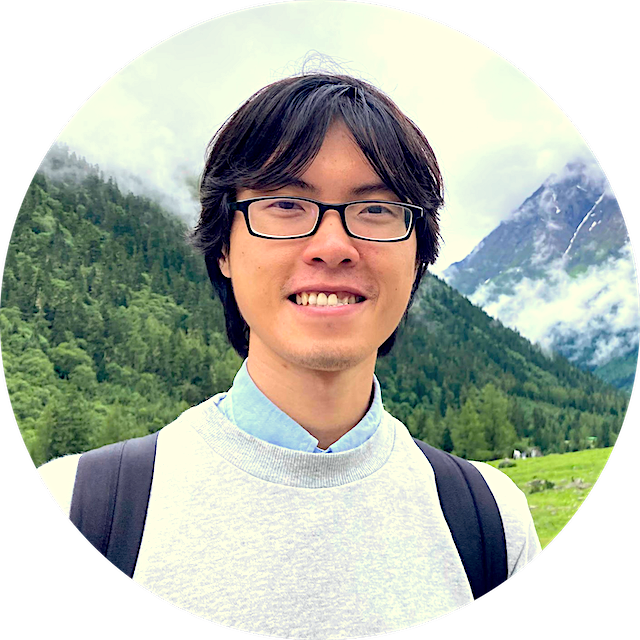
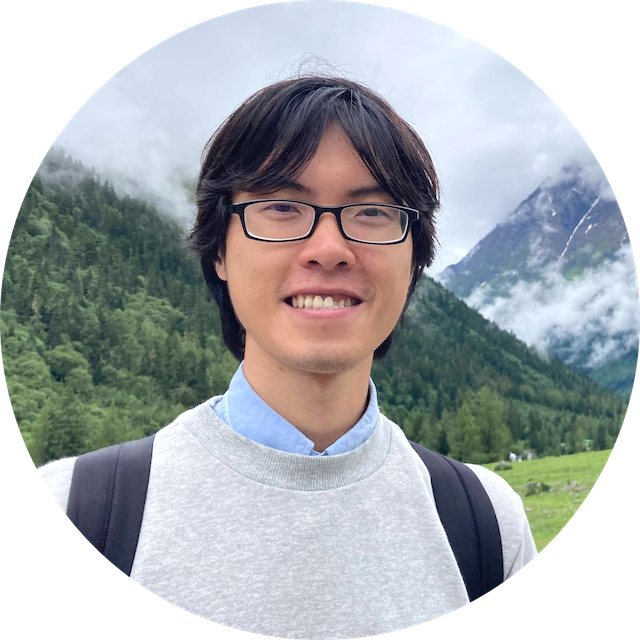
modified:   _posts/2024-02-11-air-quality.md 	new file:   _posts/2024-02-14-low-cost-sensor.md 	modified:   assets/images/.DS_Store 	modified:   assets/images/bio-photo-1.png 	new file:   assets/images/low-cost-sensor/.DS_Store 	new file:   assets/images/low-cost-sensor/fig1.png 	new file:   assets/

diff --git a/_posts/2024-02-14-low-cost-sensor.md b/_posts/2024-02-14-low-cost-sensor.md
@@ -1,0 +1,339 @@
+---
+title: "Air Quality Monitoring using Electrochemical Low-Cost Sensor Calibrated by Lasso Regression"
+date: 2024-02-14T08:30:00+09:00
+category: Data-Analysis
+tag: Projects
+header:
+  teaser: /assets/images/low-cost-sensor/teaser.jpg
+---
+
+## Analysis Goal
+
+Urban air quality monitoring requires a dense monitoring network to effectively map out the air quality distribution across regions. However, due to the inherent high cost of certified analyzers, the density of monitoring stations has been low. Low-cost sensors have been proposed to be the solution to this challenge as they are cheap to deploy and they can be calibrated by a certified analyzer for a short time, and then operate in the field for a long time.
+
+This dataset contains raw signals from two low-cost sensor nodes and ground truth data from reference stations. The sensor nodes contain NO, O3, NO2, temperature, and relative humidity sensors, as described in the [original paper](https://www.sciencedirect.com/science/article/pii/S2352340922007934#bib0011) publishing the dataset. The reference data contains hourly concentrations of CO, NO, NO2, NOx, O3, and SO2, downloaded from an [online database](https://mediambient.gencat.cat/es/05_ambits_dactuacio/atmosfera/qualitat_de_laire/vols-saber-que-respires/descarrega-de-dades/descarrega-dades-automatiques/). The goal is to develop a calibration/regression model for the low-cost sensors to accurately predict the target gas concentration for efficient air-quality monitoring.
+
+This analysis will showcase one approach for sensor calibration using Lasso regression. This method differs from generic multiple linear regression as it introduces an additional regularization term to control the sparsity of fitting coefficients. By optimizing the regularization strength, we can obtain multiple linear regression models with sparse coefficients, leading to better interpretability. This makes Lasso regression naturally suitable for sensor calibration, where simplicity is desired. The performance of Lasso regression is compared with a series of baseline models from the Python package 'lazypredict' to confirm its good performance.
+
+The calibration results indicate that the calibration for CO and SO2 is understandably poor because the sensor nodes only contain NO, O3, and NO2 sensors. However, with only two weeks of training data, the regression quality for four months of NO, NO2, NOx, and O3 data is very good, with R2 scores around and above 0.85. This validates the idea of using low-cost sensor nodes to increase monitoring network density for improved air quality monitoring performance.
+
+The full analysis with code can be found in this [Kaggle notebook](https://www.kaggle.com/code/chaozhuang/low-cost-sensor-calibration-w-lasso-regression).
+
+<figure style="width: 1000px" class="align-center">
+  <img src="/assets/images/low-cost-sensor/setup.jpg" alt="A figure that illustrate the experiment setup with sensors collocated with an authorized reference air quality monitoring station, and the internal circuit of the sensors.">
+  <figcaption>The experimental setup.</figcaption>
+</figure>
+
+## EDA
+
+Let's take a first look at the data using a correlation matrix and scatter matrix for a sanity check, confirming that no weird correlations arise from errors during the data loading phase.
+
+Several things can be observed from the correlation matrix:
+
+- Same sensors from different nodes show good correlation, confirming the reproducibility among sensors from the same manufacturer.
+- The target analyte and its corresponding specialized sensor (O3, NO, etc.) have a strong correlation, confirming the selectivity of these dedicated sensors.
+- The NO and NOx levels are highly correlated because NOx contains NO. Therefore, the sensor nodes can also be calibrated to estimate the overall NOx level.
+
+<figure style="width: 1000px" class="align-center">
+  <img src="/assets/images/low-cost-sensor/fig1.png" alt="Correlation matrix showing sensor reproducibility, selectivity, and cross-sensitivity.">
+  <figcaption>A correlation matrix of the combined dataframe.</figcaption>
+</figure>
+
+### Scatter Matrix
+
+The scatter matrix below provides a more detailed representation of the correlation coefficients presented in the correlation matrix.
+
+<figure style="width: 1000px" class="align-center">
+  <img src="/assets/images/low-cost-sensor/fig2.png" alt="Scatter matrix visualizing correlations among sensors and target analytes.">
+  <figcaption>A scatter matrix between all features.</figcaption>
+</figure>
+
+## Calibration Models
+
+To calibrate the sensors for air quality monitoring, we will use Lasso regression to calculate the coefficients of all sensor features for all target analytes, starting with CO.
+
+In the following, we have defined a helper function to visualize the optimization of the regularization term. When the regularization is weak, Lasso regression is reduced to generic multiple linear regression, where all sensor features are used in the regression. When the regularization strength is high, it promotes sparsity and penalizes the use of unimportant features, significantly reducing the number of features required during calibration. We select the best regularization strength that minimizes the root mean square error (RMSE).
+
+```python
+Best Alpha: 0.007663410868007463
+Lowest RMSE: 0.06704093498084798
+R-square (R2): 0.3081041404664757
+
+Important features in ranked order:
+NO-1-mean: 0.053
+NO2-2-mean: 0.029
+T-2-std: -0.018
+T-1-mean: -0.011
+T-2-mean: -0.008
+RH-2-std: -0.008
+```
+
+<figure style="width: 750px" class="align-center">
+  <img src="/assets/images/low-cost-sensor/fig3.png" alt="Optimizing alpha in Lasso regression to minimize RMSE. The graphs shows the RMSE and coefficient strength as a function of Alpha.">
+  <figcaption>(Left) Model RMSE of CO calibration as a function of alpha. (Right) Coefficient strengths as a function of alpha.</figcaption>
+</figure>
+
+<figure style="width: 750px" class="align-center">
+  <img src="/assets/images/low-cost-sensor/fig4.png" alt="The results of Lasso regression, indicating a decent fit despite of the absence of direct correlation.">
+  <figcaption>(Left) True vs. calibrated CO readings. (Right) Model error as a function of time.</figcaption>
+</figure>
+
+#### Machine Learning Models
+
+To obtain an overview of the performance of all other available machine learning models, we use a package called 'lazypredict' to generate baseline performance from a library of models. The list of models below shows that the optimized Lasso regression we use has a similar R2 score to the top-performing OrthogonalMatchingPursuitCV. Notice also that simple linear regression gives a negative R2 score, which means its performance is worse than using the average of all signals for calibration. This further validates the effectiveness of our calibration model.
+
+```python
+Adjusted R-Squared  R-Squared  RMSE  Time Taken
+Model                                                                         
+OrthogonalMatchingPursuitCV                  0.30       0.31  0.07        0.08
+ExtraTreesRegressor                          0.29       0.29  0.07        0.27
+LarsCV                                       0.28       0.29  0.07        0.14
+LassoLarsCV                                  0.28       0.29  0.07        0.15
+GammaRegressor                               0.28       0.29  0.07        0.04
+LassoCV                                      0.28       0.29  0.07        0.22
+ElasticNetCV                                 0.28       0.29  0.07        0.22
+PoissonRegressor                             0.26       0.26  0.07        0.07
+...
+```
+
+### NO
+
+We have a NO sensor in the low-cost sensor node, so we expect much better calibration performance for this target. Using the same Lasso regressor, we obtain an R2 score of 0.89 with 14 non-zero coefficients out of 18 candidates. The most important feature is, unsurprisingly, the mean NO sensor signals. The optimized Lasso also outperforms the best model provided by lazypredict.
+
+```python
+Best Alpha: 0.10353218432956626
+Lowest RMSE: 3.3233438447063244
+R-square (R2): 0.8901232879755219
+
+Important features in ranked order:
+NO-1-mean: 17.050
+T-1-mean: -2.978
+NO2-2-mean: 2.865
+NO-1-std: 2.623
+NO2-2-std: -2.239
+T-2-std: -1.330
+O3-1-mean: 1.252
+O3-2-std: 1.191
+NO2-1-std: 0.838
+RH-2-mean: 0.793
+RH-1-std: -0.470
+RH-1-mean: 0.360
+T-1-std: 0.319
+T-2-mean: -0.197
+```
+
+<figure style="width: 750px" class="align-center">
+  <img src="/assets/images/low-cost-sensor/fig5.png" alt="Optimizing alpha in Lasso regression to minimize RMSE. The graphs shows the RMSE and coefficient strength as a function of Alpha.">
+  <figcaption>(Left) Model RMSE of NO calibration as a function of alpha. (Right) Coefficient strengths as a function of alpha.</figcaption>
+</figure>
+
+<figure style="width: 750px" class="align-center">
+  <img src="/assets/images/low-cost-sensor/fig6.png" alt="The results of Lasso regression, indicating a decent fit despite of the absence of direct correlation.">
+  <figcaption>(Left) True vs. calibrated NO readings. (Right) Model error as a function of time.</figcaption>
+</figure>
+
+#### Machine Learning Models
+
+```python
+Adjusted R-Squared  R-Squared  RMSE  Time Taken
+Model                                                                         
+ExtraTreesRegressor                          0.88       0.88  3.42        0.31
+ElasticNetCV                                 0.88       0.88  3.52        0.18
+LinearSVR                                    0.87       0.87  3.64        0.06
+SGDRegressor                                 0.86       0.86  3.78        0.06
+HuberRegressor                               0.86       0.86  3.80        0.07
+LassoCV                                      0.85       0.85  3.82        0.20
+LassoLarsIC                                  0.85       0.85  3.90        0.07
+LarsCV                                       0.85       0.85  3.93        0.13
+RidgeCV                                      0.84       0.85  3.94        0.05
+Ridge                                        0.84       0.85  3.94        0.04
+```
+
+### NO2
+
+Running the calibration model on NO2 concentration gives an R2 score of 0.86 with 7 features, and the most important feature is NO2 sensor signals. Results from lazypredict indicate that further improvement can be obtained using OrthogonalMatchingPursuitCV.
+
+```python
+Best Alpha: 1.0473708979594507
+Lowest RMSE: 5.541482212190994
+R-square (R2): 0.8569124344981707
+
+Important features in ranked order:
+NO2-1-mean: 14.588
+O3-1-mean: -2.432
+NO-1-mean: 1.037
+NO-1-std: 0.720
+T-2-std: 0.679
+NO2-2-mean: 0.064
+O3-2-mean: -0.056
+```
+
+<figure style="width: 750px" class="align-center">
+  <img src="/assets/images/low-cost-sensor/fig7.png" alt="Optimizing alpha in Lasso regression to minimize RMSE. The graphs shows the RMSE and coefficient strength as a function of Alpha.">
+  <figcaption>(Left) Model RMSE of NO2 calibration as a function of alpha. (Right) Coefficient strengths as a function of alpha.</figcaption>
+</figure>
+
+<figure style="width: 750px" class="align-center">
+  <img src="/assets/images/low-cost-sensor/fig8.png" alt="The results of Lasso regression, indicating a decent fit despite of the absence of direct correlation.">
+  <figcaption>(Left) True vs. calibrated NO2 readings. (Right) Model error as a function of time.</figcaption>
+</figure>
+
+#### Machine Learning Models
+
+```python
+Adjusted R-Squared  R-Squared   RMSE   Time Taken
+Model                                                                 
+OrthogonalMatchingPursuitCV                  0.87       0.87   5.34   0.08
+LinearSVR                                    0.86       0.86   5.46   0.06
+RANSACRegressor                              0.86       0.86   5.51   0.19
+Lasso                                        0.86       0.86   5.55   0.05
+LassoLars                                    0.86       0.86   5.55   0.06
+LassoCV                                      0.85       0.85   5.62   0.21
+LassoLarsCV                                  0.85       0.85   5.62   0.16
+HuberRegressor                               0.85       0.85   5.65   0.07
+LassoLarsIC                                  0.85       0.85   5.68   0.08
+ExtraTreesRegressor                          0.83       0.84   5.94   0.32
+```
+
+### NOx
+
+The calibration for NOx is the best so far with an R2 score of 0.97, with strong contributions from both NO and NO2 sensors. This is understandable because NOx includes both NO and NO2.
+
+```python
+Best Alpha: 0.2196385372416547
+Lowest RMSE: 4.638807395477192
+R-square (R2): 0.970297075476178
+
+Important features in ranked order:
+NO-1-mean: 27.923
+NO2-2-mean: 19.134
+NO-1-std: 4.610
+T-1-mean: -3.536
+O3-2-std: 2.004
+NO2-2-std: -1.461
+RH-2-mean: 1.277
+RH-1-std: -0.840
+O3-2-mean: -0.762
+T-2-std: -0.483
+RH-1-mean: 0.444
+NO2-1-mean: 0.421
+T-1-std: 0.212
+```
+
+<figure style="width: 750px" class="align-center">
+  <img src="/assets/images/low-cost-sensor/fig9.png" alt="Optimizing alpha in Lasso regression to minimize RMSE. The graphs shows the RMSE and coefficient strength as a function of Alpha.">
+  <figcaption>(Left) Model RMSE of NOx calibration as a function of alpha. (Right) Coefficient strengths as a function of alpha.</figcaption>
+</figure>
+
+<figure style="width: 750px" class="align-center">
+  <img src="/assets/images/low-cost-sensor/fig10.png" alt="The results of Lasso regression, indicating a decent fit despite of the absence of direct correlation.">
+  <figcaption>(Left) True vs. calibrated NOx readings. (Right) Model error as a function of time.</figcaption>
+</figure>
+
+#### Machine Learning Models
+```python
+                               Adjusted R-Squared  R-Squared    RMSE   Time
+Model                                                                  
+PassiveAggressiveRegressor                   0.97       0.97    4.72   0.05
+LinearSVR                                    0.97       0.97    4.73   0.06
+HuberRegressor                               0.97       0.97    5.00   0.07
+RANSACRegressor                              0.96       0.96    5.07   0.18
+OrthogonalMatchingPursuitCV                  0.96       0.96    5.50   0.08
+LassoCV                                      0.95       0.95    5.83   0.19
+LassoLarsCV                                  0.95       0.95    5.84   0.14
+LassoLars                                    0.95       0.95    6.21   0.06
+Lasso                                        0.95       0.95    6.21   0.06
+ElasticNetCV                                 0.94       0.94    6.53   0.18
+LassoLarsIC                                  0.94       0.94    6.58   0.08
+```
+
+### O3
+
+The calibration for O3 is also very good (R2 score: 0.94) with the main contributions from O3 sensors, and only five features are used in this calibration. Lazypredict shows that Lasso is the best model for this calibration.
+
+```python
+Best Alpha: 0.4937047852839004
+Lowest RMSE: 5.585452993378217
+R-square (R2): 0.9427919832964997
+
+Important features in ranked order:
+O3-2-mean: 9.233
+NO2-1-mean: -7.326
+O3-1-mean: 6.512
+NO-1-mean: 1.504
+RH-1-mean: -0.157
+```
+
+<figure style="width: 750px" class="align-center">
+  <img src="/assets/images/low-cost-sensor/fig11.png" alt="Optimizing alpha in Lasso regression to minimize RMSE. The graphs shows the RMSE and coefficient strength as a function of Alpha.">
+  <figcaption>(Left) Model RMSE of O3 calibration as a function of alpha. (Right) Coefficient strengths as a function of alpha.</figcaption>
+</figure>
+
+<figure style="width: 750px" class="align-center">
+  <img src="/assets/images/low-cost-sensor/fig12.png" alt="The results of Lasso regression, indicating a decent fit despite of the absence of direct correlation.">
+  <figcaption>(Left) True vs. calibrated O3 readings. (Right) Model error as a function of time.</figcaption>
+</figure>
+
+#### Machine Learning Models
+
+```python
+                               Adjusted R-Squared  R-Squared  RMSE  Time Taken
+Model                                                                         
+LassoCV                                      0.94       0.94  5.92        0.21
+LassoLarsCV                                  0.93       0.94  5.95        0.15
+LassoLars                                    0.93       0.93  5.96        0.05
+Lasso                                        0.93       0.93  5.96        0.06
+LarsCV                                       0.93       0.93  6.24        0.13
+OrthogonalMatchingPursuitCV                  0.93       0.93  6.27        0.08
+PassiveAggressiveRegressor                   0.91       0.91  6.97        0.06
+LinearSVR                                    0.91       0.91  7.03        0.10
+ElasticNetCV                                 0.90       0.90  7.51        0.18
+HuberRegressor                               0.89       0.89  7.68        0.07
+```
+
+### SO2
+
+Another sanity check, aside from CO, is to confirm that the good fit for NO, NO2, NOx, and O3 is a result of the dedicated sensors in the sensor nodes. Not all analytes can be calibrated. In the calibration for SO2, although the best model has only two features - the mean and standard deviation of the NO sensor - the R2 score is -0.52. This means that using the signal average can yield a better fit than the calibration model. Lazypredict gives the same result, so there is no combination of sensor signals that can be predictive of SO2.
+
+```python
+Best Alpha: 0.025826187606826773
+Lowest RMSE: 0.6775644967412245
+R-square (R2): -0.5156341060941354
+
+Important features in ranked order:
+NO-1-mean: 0.048
+NO-1-std: 0.010
+```
+
+<figure style="width: 750px" class="align-center">
+  <img src="/assets/images/low-cost-sensor/fig13.png" alt="Optimizing alpha in Lasso regression to minimize RMSE. The graphs shows the RMSE and coefficient strength as a function of Alpha.">
+  <figcaption>(Left) Model RMSE of SO2 calibration as a function of alpha. (Right) Coefficient strengths as a function of alpha.</figcaption>
+</figure>
+
+<figure style="width: 750px" class="align-center">
+  <img src="/assets/images/low-cost-sensor/fig14.png" alt="The results of Lasso regression, indicating a decent fit despite of the absence of direct correlation.">
+  <figcaption>(Left) True vs. calibrated SO2 readings. (Right) Model error as a function of time.</figcaption>
+</figure>
+
+#### Machine Learning Models
+
+```python
+                               Adjusted R-Squared  R-Squared  RMSE  Time Taken
+Model                                                                         
+SVR                                         -0.28      -0.27  0.62        0.08
+NuSVR                                       -0.47      -0.46  0.66        0.18
+OrthogonalMatchingPursuit                   -0.52      -0.51  0.68        0.04
+RandomForestRegressor                       -0.54      -0.53  0.68        0.40
+ExtraTreeRegressor                          -0.54      -0.53  0.68        0.05
+GradientBoostingRegressor                   -0.54      -0.53  0.68        0.32
+XGBRegressor                                -0.54      -0.53  0.68        0.17
+ExtraTreesRegressor                         -0.54      -0.53  0.68        0.20
+LassoLars                                   -0.55      -0.54  0.68        0.05
+Lasso                                       -0.55      -0.54  0.68        0.05
+```
+
+## Conclusions
+
+This dataset consists of two low-cost sensor nodes and ground truth air quality data from an authorized reference station. By using the first two weeks of data for training and the following four months of data for validation, we show that Lasso regression can yield very good sensor calibration for several markers of air quality, including NO, NO2, NOx, and O3. The R2 scores for all these analytes are around and above 0.85, indicating good sensor stability over time. We also tested the calibration performance for non-target analytes CO and SO2, but the calibration accuracy is poor because the two sensor nodes do not contain any sensors that are sensitive to these gases.
+
+In conclusion, Lasso regression provides a middle ground between overly simplistic multiple linear regression and uninterpretable machine learning models. Its ability to generate a sparse calibration relationship offers an efficient alternative to conventional calibration methods for low-cost air quality monitoring sensor arrays.

diff --git a/_posts/2024-02-11-air-quality.md b/_posts/2024-02-11-air-quality.md
@@ -11,6 +11,8 @@ header:
 
 ## Analysis Goal
 
+Urban air quality monitoring requires a dense monitoring network to effectively map out the air quality distribution across regions. However, due to the inherent high cost of certified analyzers, the density of monitoring stations has been low. Low-cost sensors have been proposed to be the solution to this challenge as they are cheap to deploy and they can be calibrated by a certified analyzer for a short time, and then operate in the field for a long time.
+
 This dataset encompasses readings from a metal oxide multisensor array, commercial temperature and humidity sensors, alongside ground truth measurements of pollutants: CO, NMHC, C6H6, NOx, and NO2. Our aim is to identify a regression algorithm that calibrates sensor array signals to precisely predict pollutant concentrations, optimizing for minimal training time and prolonged stable operation.
 
 In this analysis, we commence with data cleaning and exploratory data analysis (EDA), followed by simple linear regression to set a baseline. Subsequently, we explore neural networks (as discussed in the original paper) and random forest to ascertain the optimal complexity for this task. Interestingly, linear regression emerged as the most effective, closely followed by tree-based methods, with neural networks trailing.
